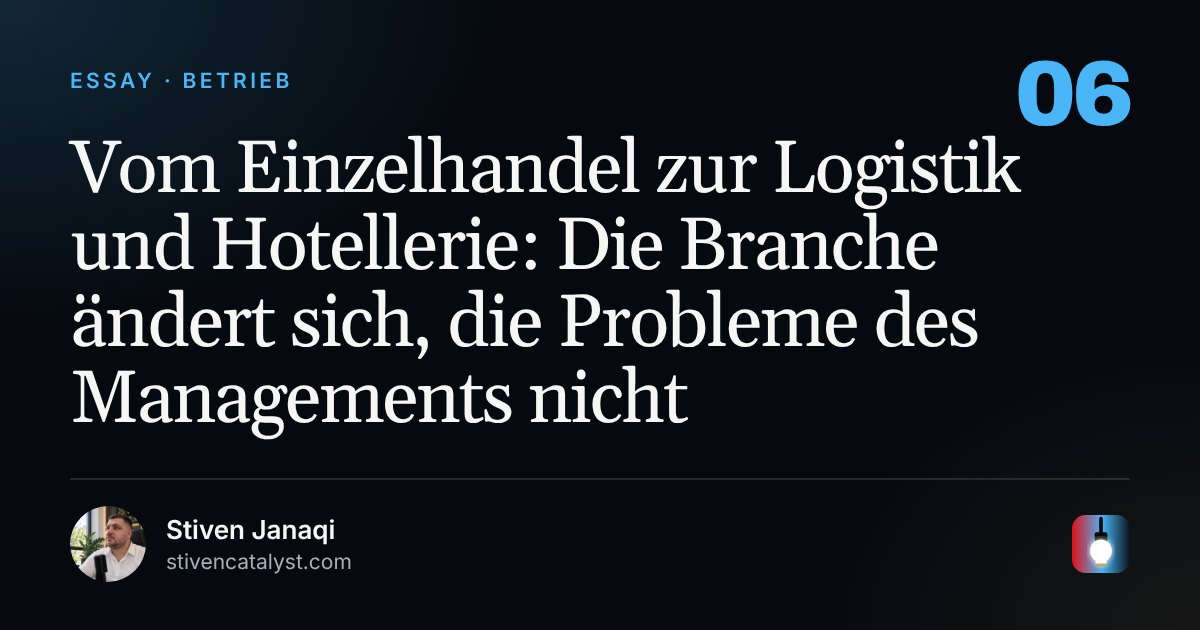
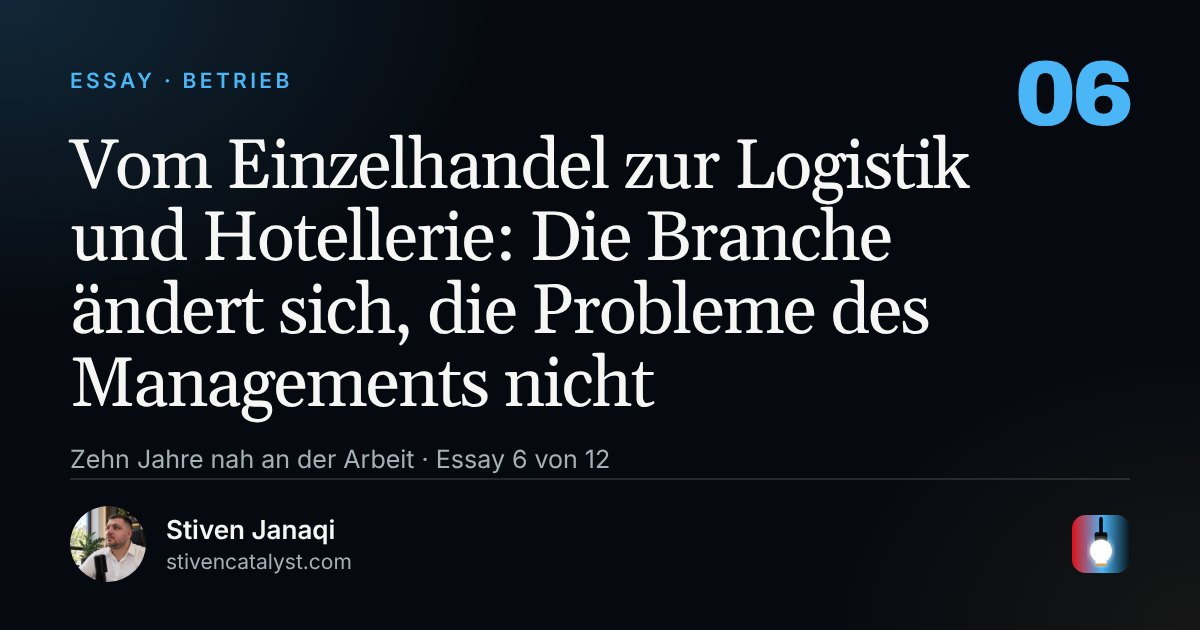
Reflections: The divine mission on the second floor, and The two-day ultimatum, in three languages (#336)
Two new reflections, in Albanian (the originals) and in English and German,
with their link previews.

The link previews now keep their two-line lede under a long title: the lede
may no longer shrink and the copy overflows downwards ("safe center"), so
fit() sees the overflow and makes the title smaller. Before, a title of four
lines cut the lede to one line or hid it; seven essay cards that had this
are made again.

Claude-Session: https://claude.ai/code/session_01FroiJgeKp4xmXy7hsUjsLA

Changed region(s): [[0.0617, 0.2111, 0.8633, 0.754]]

diff --git a/src/content/de/reflections/2026-10-25-the-divine-mission.md b/src/content/de/reflections/2026-10-25-the-divine-mission.md
@@ -1,0 +1,32 @@
+---
+title: 'Die göttliche Mission im zweiten Stock: Wenn der Eigentümer zum Wohltäter des Elends wird'
+date: 2026-10-25
+status: published
+summary: 'Sieht der Eigentümer den Lohn als Gnade statt Pflicht, wird Arbeit zu feudaler Wohltätigkeit.'
+deck: 'In der neuen Mythologie unseres Unternehmertums gibt es Menschen, die glauben, die Schlüssel zum Lager seien vom Himmel herabgesandt worden und der Lohn am Monatsende sei kein Vertrag, sondern ein Akt göttlicher Gnade.'
+description: 'Über den Eigentümer, der den Lohn als himmlisches Almosen sieht, über feudale Wohltätigkeit statt Vertrag und warum Menschen Gerechtigkeit wollen, keine Gunst.'
+---
+
+Es gibt einen magischen Moment in der Psychologie unverdienter Macht: den Augenblick, in dem ein Mensch vergisst, wie er die ersten Steine seines eigenen Hauses gelegt hat, und beschließt, das Gewand eines Gesandten von oben anzulegen.
+
+In vielen albanischen Büros und Betrieben haben wir heute nicht einfach Unternehmensleiter. Wir haben selbsternannte Propheten des Überlebens. Es ist jener Eigentümer, der beim Morgenkaffee aus dem Fenster im zweiten Stock auf die Mauern seines Lagers blickt und überzeugt ist, dass er den Betrieb nicht mit Schweiß, mit Krediten oder mit Glück aufgebaut hat, sondern dass Gott ihn ihm gegeben hat. Und zusammen mit dem Betrieb wurde ihm, so diese göttliche Erzählung, auch eine hohe Mission übertragen: albanische Familien zu ernähren, indem er ihnen am Monatsende einen Bissen hinwirft.
+
+Lassen Sie mich zu dieser modernen Mythologie ganz deutlich sein.
+
+**Wenn ein Unternehmer sich einredet, der Lohn, den er zahlt, sei ein himmlisches Almosen und keine gesetzliche und menschliche Pflicht, hat er jede Chance auf eine gesunde Wirtschaft zerstört.**
+
+Die Logik dieser göttlichen Mission ist einfach, aber zerstörerisch. Wenn der Betrieb ein Geschenk des Himmels ist, gelten die Regeln des Marktes für ihn nicht. Wenn der Eigentümer nur ein Werkzeug eines höheren Willens ist, um Menschen am Leben zu halten, dann gilt jede Bitte um eine Gehaltserhöhung, um bessere Bedingungen oder um die Einhaltung der Arbeitszeit nicht als berechtigter Anspruch. Sie gilt als Sünde. Als Undankbarkeit gegenüber dem, der die heilige Last auf sich genommen hat, euch Brot zu geben.
+
+So wird das Arbeitsverhältnis auf den Kopf gestellt. Es ist kein ehrlicher Austausch mehr zwischen zwei freien Parteien, bei dem Arbeit auf Kapital trifft. Es wird zu einer Vorführung feudaler Wohltätigkeit.
+
+Der Eigentümer ist kein Arbeitgeber mehr; er ist ein Wohltäter. Der Mitarbeiter ist kein Fachmann mehr, der Wert schafft; er ist der stumme Bettler, der jeden Abend dafür danken muss, dass er überhaupt noch da ist. Und wenn der Moment der Rechenschaft kommt, wenn jemand fragt, warum die Gewinne steigen, während die Löhne stehen bleiben, kommt die Antwort im selben Ton eines müden Messias: „Ich halte euch in diesem schweren Land mit Brot am Leben.“
+
+Doch reden wir offen. Gott ist nie auf die Erde herabgestiegen, um Vollzeitverträge ohne Bezahlung der Überstunden zu unterschreiben. Der Himmel hat keinen Oligarchen und keinen kleinen Händler zum Hüter des Schicksals der Albaner bestimmt.
+
+Betriebe werden vom System aufgebaut, vom Kunden, der bezahlt, von der Infrastruktur dieses Landes und vor allem von den müden Händen der Menschen, die im Morgengrauen aufstehen, um dieses Lager oder diesen Laden offen zu halten. Der Bissen am Monatsende wird von niemandem geschenkt. Er wird verdient, mit jedem Liter Schweiß, jeder Sekunde Konzentration und jedem Stück Gesundheit dessen, der arbeitet.
+
+Diese Idee vom Eigentümer als Retter ist die vollkommenste Maske, um fehlende Vision zu verbergen. Es ist leichter, sich einzureden, man sei ein Wohltäter, der ein unfähiges Volk auf dem Rücken trägt, als die bittere Wahrheit anzunehmen: dass dein Betrieb keinen einzigen Tag ohne die unermüdliche Arbeit derer überleben würde, die du als minderwertig behandelst.
+
+Unsere Leute brauchen niemandes Almosen. Sie bitten nicht um die Gunst des Eigentümers und nicht um die Güte derer, die ihnen ein wenig Geld zustecken, damit sie über den Monat kommen. Sie verlangen Gerechtigkeit. Sie verlangen ein System, in dem Arbeit für das geschätzt wird, was sie ist, in dem der Vertrag geachtet wird und in dem die Menschenwürde nicht den kleinen Theokratien privater Büros unterworfen ist.
+
+Der Tag, an dem diese falsche Mission endet, wird der Tag sein, an dem unsere Wirtschaft endlich atmen kann. Denn solange wir glauben, wir dürften nur aus der Gnade eines anderen auf unserem eigenen Boden leben, bleiben wir Fremde im eigenen Land und stehen Schlange für einen Bissen, den wir in Wahrheit mit unseren eigenen Händen hergestellt haben.

diff --git a/src/content/sq/reflections/2026-10-25-the-divine-mission.md b/src/content/sq/reflections/2026-10-25-the-divine-mission.md
@@ -1,0 +1,32 @@
+---
+title: 'Misioni hyjnor në katin e dytë: Kur pronari bëhet bamirës i mjerimit'
+date: 2026-10-25
+status: published
+summary: 'Kur pronari beson se rroga është mëshirë dhe jo detyrim, puna kthehet në bamirësi feudale.'
+deck: 'Në mitologjinë e re të sipërmarrjes sonë, ka njerëz që besojnë se çelësat e magazinës u zbritën nga qielli dhe se paga në fund të muajit nuk është kontratë, por një akt mëshire hyjnore.'
+description: 'Një reflektim për pronarin që e sheh rrogën si lëmoshë qiellore, për bamirësinë feudale në vend të kontratës dhe pse njerëzit kërkojnë drejtësi, jo hir.'
+---
+
+Ka një çast magjik në psikologjinë e pushtetit të pamerituar, ai moment kur njeriu harron se si i ka vënë gurët e parë të shtëpisë së tij dhe vendos të veshë petkun e të dërguarit të lartë.
+
+Në shumë zyra dhe ndërmarrje shqiptare sot, ne nuk kemi thjesht drejtues biznesi. Ne kemi profetë të vetëshpallur të mbijetesës. Është ai pronar i cili, teksa pi kafen e mëngjesit duke parë nga dritarja e katit të dytë muret e magazinës së tij, është i bindur se biznesin nuk e ka ndërtuar me djersë, me kredi apo me fat, por se ia ka dhënë Zoti. Dhe bashkë me biznesin, sipas këtij narrativi hyjnor, i është dhënë edhe një mision i lartë: të ushqejë familjet shqiptare duke u hedhur një kafshatë në fund të muajit.
+
+Më lejoni të jem krejtësisht i qartë për këtë mitologji moderne.
+
+**Kur një sipërmarrës bind veten se paga që jep është lëmoshë qiellore dhe jo detyrim ligjor e njerëzor, ai ka shkatërruar çdo mundësi për të pasur një ekonomi të shëndetshme.**
+
+Logjika e këtij misioni hyjnor është e thjeshtë, por shkatërruese. Nëse biznesi është dhuratë e qiellit, atëherë rregullat e tregut nuk vlejnë për të. Nëse pronari është thjesht një mjet i vullnetit të lartë për të mbajtur gjallë njerëzit, atëherë çdo kërkesë për rritje rroge, për kushte më të mira apo për respektim të orarit nuk shihet si e drejtë legjitime. Ajo shihet si një mëkat. Shihet si mosmirënjohje ndaj atij që ka marrë mbi vete barrën e shenjtë për t'ju dhënë bukë.
+
+Kështu, marrëdhënia e punës kthehet përmbys. Ajo nuk është më një shkëmbim i ndershëm mes dy palëve të lira, ku mundi takohet me kapitalin. Ajo shndërrohet në një shfaqje bamirësie feudale.
+
+Pronari nuk është më punëdhënës; ai është bamirës. Punonjësi nuk është më profesionist që prodhon vlerë; ai është lypësi i heshtur që duhet të falënderojë çdo mbrëmje për faktin se ekziston ende. Dhe kur vjen momenti i llogaridhënies, kur pyetet se pse fitimet rriten ndërsa rrogat mbeten në vend, përgjigjja jepet me të njëjtin ton prej mesie të lodhur: "Po ju mbaj me bukë në këtë vend të vështirë."
+
+Por le të flasim hapur. Zoti nuk ka zbritur asnjëherë në tokë për të firmosur kontrata pune me orar të plotë dhe pa pagesë për orët shtesë. Qielli nuk ka caktuar asnjë oligark apo tregtar të vogël për të qenë kujdestar i fatit të shqiptarëve.
+
+Bizneset ndërtohen nga sistemi, nga konsumatori që paguan, nga infrastruktura e këtij vendi dhe mbi të gjitha, nga duart e lodhura të njerëzve që zgjohen në agim për të mbajtur hapur atë magazinë apo atë dyqan. Kafshata në fund të muajit nuk falet nga askush. Ajo fitohet me çdo litër djersë, me çdo sekondë përqendrimi dhe me çdo copë nga shëndeti i atij që punon.
+
+Kjo ide e pronarit-shpëtimtar është maska më e përsosur për të fshehur mungesën e vizionit. Është më e lehtë t'i thuash vetes se je një bamirës që mban mbi shpinë një popull të paaftë, sesa të pranosh të vërtetën e hidhur: se biznesi yt nuk do të mbijetonte asnjë ditë të vetme pa punën e palodhur të atyre që ti i trajton si inferiorë.
+
+Njerëzit tanë nuk kanë nevojë për lëmoshën e askujt. Ata nuk kërkojnë hirin e pronarit dhe as mirësinë e atyre që u lëshojnë ca para sa për të kaluar muajin. Ata kërkojnë drejtësi. Kërkojnë një sistem ku puna vlerësohet për atë që është, ku kontrata respektohet dhe ku dinjiteti njerëzor nuk është subjekt i teokracive të vogla të zyrave private.
+
+Dita kur ky mision i rremë do të marrë fund do të jetë dita kur ekonomia jonë do të marrë më në fund frymë. Sepse derisa të besojmë se jemi të falur nga mëshira e dikujt tjetër për të jetuar në tokën tonë, ne do të vazhdojmë të jemi të huaj në vendin tonë, duke pritur në radhë për një kafshatë që në fakt e kemi prodhuar vetë me duart tona.

diff --git a/src/content/de/reflections/2026-10-25-the-two-day-ultimatum.md b/src/content/de/reflections/2026-10-25-the-two-day-ultimatum.md
@@ -1,0 +1,32 @@
+---
+title: 'Das Gedächtnis der Fliesen und das Zwei-Tage-Ultimatum: Wenn Führung zum Extremsport wird'
+date: 2026-10-25
+status: published
+summary: 'Kein System, keine Schulung, keine Abläufe: Der Mitarbeiter soll ein lebender Scanner sein. Passiert ein Fehler, trägt er die Schuld, nicht das Chaos.'
+deck: 'In einem Markt, in dem fehlende Systeme sich hinter körperlichem Druck verstecken, wird der Mitarbeiter wie ein organischer Computer behandelt, der alles verstehen soll, ohne ein einziges Werkzeug zu bekommen.'
+description: 'Über Läden, die vom Gedächtnis des Eigentümers leben, über zwei Tage Einarbeitung als Ultimatum und warum ein System, nicht Druck, Menschen vor Fehlern schützt.'
+---
+
+Stellen Sie sich für einen Moment acht volle Stunden auf den Beinen vor, auf dem kalten Boden eines Ladens, in dem die Luft nach Staub und Reinigungsmitteln riecht. Es geht nicht nur um die tägliche Arbeit. Es geht um einen Rhythmus, in dem das Wischen der Fliesen, das Ordnen der Regale und das Putzen jeder Ecke zu einer Routine werden, die dich körperlich aufreibt, bevor der Tag auch nur zur Hälfte vorbei ist.
+
+Doch das ist nur der sichtbare Teil des Leidenswegs.
+
+Dort, wo die eigentliche Arbeit auf einem klaren System, auf Technik, auf Daten und auf dokumentierten Abläufen beruhen sollte, entdeckst du die bittere Wirklichkeit vieler unserer Betriebe: Es gibt kein System. Das Lager oder der Laden läuft auf dem visuellen Gedächtnis des Eigentümers. Du bekommst keine Datenbank, keine klare Anleitung, kein einziges digitales Arbeitsmittel. Von dir wird verlangt, tausende Artikel auswendig zu kennen, zu wissen, wo jede Kiste steckt, und ein lebender menschlicher Scanner zu sein, nur weil jemand nicht ein paar Münzen in ein einfaches Warenwirtschaftssystem stecken wollte.
+
+Und dann kommt der absurdeste Moment dieser kleinen Firmenwelt.
+
+Wenn dieser Mitarbeiter, erschöpft von acht Stunden Putzen und von der unmöglichen Aufgabe, sich ohne die Hilfe eines Systems an jedes Detail zu erinnern, einen kleinen Fehler macht, folgt die Strafe sofort. Man zieht ihn mit der Strenge eines Richters zur Rechenschaft. Man sagt ihm, er sei nicht fähig, er könne sich nicht konzentrieren, er verstehe die Arbeit nicht.
+
+In diesem Moment vergisst der Vorgesetzte ein kleines Detail. Der Mitarbeiter ist seit Jahren dort, ohne je eine echte Schulung bekommen zu haben, ohne jede strukturelle Unterstützung. Seine einzige Einarbeitung war jenes berühmte Zwei-Tage-Ritual am Anfang, bei dem ihm jemand ein paar Worte nebenbei hingeworfen und in scharfem Ton gesagt hat: *Wenn du es verstehst, verstehst du es. Und wenn nicht, bist du für diese Arbeit nicht gemacht.*
+
+Lassen Sie es mich offen sagen, ohne ein einziges schönes Wort, um die Dinge zu beschönigen. **Das ist keine Methode der Beurteilung; das ist Unfähigkeit, getarnt als psychologischer Druck.**
+
+Ein Betrieb, der sich weigert, in Schulung zu investieren, der sich weigert, Arbeitsstandards aufzubauen, der kein Warenwirtschaftssystem einführen will und erwartet, dass der Mitarbeiter wie eine organische Festplatte funktioniert, führt kein Unternehmen. Er hält Menschen durch körperliche Erschöpfung als Geiseln.
+
+Wie kannst du einen Menschen für einen Ablauf zur Rechenschaft ziehen, den du nie zu Papier gebracht hast? Wie kannst du jemanden faul oder unfähig nennen, der den Tag damit verbringt, den Boden zu wischen und sich zu erinnern, wo die Ware abgestellt wurde, während die oben im Büro keine einzige Regel aufgestellt haben?
+
+Das Zwei-Tage-Ultimatum ist die letzte Zuflucht von Vorgesetzten, die nicht zu führen wissen. Es ist ihre Art zu sagen, dass die Schuld nicht in fehlender Organisation liegt, sondern in der Schwäche des Mitarbeiters.
+
+Doch die Wahrheit lässt sich nicht hinter dem Wischen der Ladenfliesen verstecken. Menschen scheitern nicht, weil ihnen der Wille zur Arbeit fehlt. Sie scheitern, wenn sie in einem Umfeld stehen, in dem man das Chaos Disziplin nennt und fehlende Schulung eine Charakterprüfung.
+
+Eine gesunde Organisation kennt eine Regel gut: Das System lehrt den Mitarbeiter, und die Schulung schützt ihn vor Fehlern. Solange unsere Vorgesetzten nicht begreifen, dass Lager nicht vom visuellen Gedächtnis Erschöpfter am Leben gehalten werden und dass zwei Tage Ultimatum niemals eine echte Kultur der Entwicklung ersetzen können, werden wir weiter Läden sehen, in denen die Arbeit zum Gefängnis geworden ist, und Menschen, die gehen und nichts zurücklassen als den Staub, den sie umsonst gewischt haben.

diff --git a/src/content/sq/reflections/2026-10-25-the-two-day-ultimatum.md b/src/content/sq/reflections/2026-10-25-the-two-day-ultimatum.md
@@ -1,0 +1,32 @@
+---
+title: 'Kujtesa e pllakave dhe ultimatumi dy-ditor: Kur menaxhimi kthehet në sport ekstrem'
+date: 2026-10-25
+status: published
+summary: 'Pa sistem, pa trajnim dhe pa procedura, punonjësi duhet të jetë skaner i gjallë. Kur gabon, faji i jepet atij, jo kaosit.'
+deck: 'Në një treg ku mungesa e sistemit fshihet pas trysnisë fizike, punonjësi trajtohet si një kompjuter organik që duhet të kuptojë gjithçka pa i dhënë asnjë mjet.'
+description: 'Një reflektim për dyqanet që punojnë mbi kujtesën e pronarit, për trajnimin dy-ditor si ultimatum dhe pse sistemi, jo presioni, e mbron punonjësin nga gabimi.'
+---
+
+Përfytyroni për një çast tetë orë të plota në këmbë, mbi dyshemenë e ftohtë të një dyqani ku ajri mban erë pluhuri dhe pastruesish. Nuk bëhet fjalë vetëm për punën e përditshme. Bëhet fjalë për një ritëm ku fshirja e pllakave, rregullimi i rafteve dhe pastrimi i çdo cepi bëhen pjesë e një rutine që të tret fizikisht para se dita të jetë afruar në gjysmë.
+
+Por kjo është vetëm pjesa e dukshme e kalvarit.
+
+Aty ku puna e vërtetë duhet të mbështetet te një sistem i qartë, te teknologjia, te të dhënat dhe te procedurat e dokumentuara, zbulon realitetin e hidhur të shumë bizneseve tona: nuk ka asnjë sistem. Magazina apo dyqani funksionon mbi memorien vizuale të pronarit. Ty nuk të jepet një bazë të dhënash, nuk të jepet një udhëzues i qartë, nuk të jepet asnjë mjet pune digjital. Ty të kërkohet të mbash mend mijëra artikuj përmendësh, të dish se ku fshihet çdo kuti dhe të jesh një skaner i gjallë njerëzor, thjesht sepse dikush nuk ka dashur të investojë dy lekë në një sistem të thjeshtë menaxhimi.
+
+Dhe pastaj vjen momenti më absurd i kësaj bote korporative të vogël.
+
+Kur ky punonjës, i rraskapitur nga tetë orë pastrim dhe nga detyra e pamundur për të mbajtur mend çdo detaj pa ndihmën e një sistemi, bën një gabim të vogël, dënimi vjen menjëherë. Atij i kërkohet llogari me një ashpërsi prej gjykatësi. I thuhet se nuk është i zoti, se nuk ka përqendrim, se nuk e kupton punën.
+
+Në atë çast, drejtuesi harron një detaj të vogël. Punonjësi qëndron aty prej vitesh, pa marrë asnjë trajnim të mirëfilltë, pa asnjë mbështetje institucionale. Trajnimi i tij i vetëm ka qenë ai rituali i famshëm dy-ditor në fillim të rrugës, ku dikush i ka hedhur disa fjalë shkarazi dhe i ka thënë me ton prerës: *Po e kuptove, e kuptove. Se po s'e kuptove, s'je për këtë punë.*
+
+Më lejoni ta them hapur, pa asnjë fjalë të bukur për t'i zbukuruar gjërat. **Kjo nuk është metodë vlerësimi; kjo është paaftësi e maskuar me presion psikologjik.**
+
+Një shoqëri pune që refuzon të investojë në trajnime, që refuzon të ndërtojë standarde operimi, që nuk pranon të vërë në punë një sistem inventari dhe që pret që punonjësi të funksionojë si një hard disk organik, nuk po drejton një biznes. Ajo po mban peng njerëz përmes rraskapitjes fizike.
+
+Si mund t'i kërkosh llogari një njeriu për një proces që nuk ia ke hedhur kurrë në letër? Si mund ta quash dembel apo të paaftë dikë që e kalon ditën duke fshirë dyshemenë dhe duke u munduar të kujtojë se ku është vendosur malli, ndërsa ata që rrinë në zyrë lart nuk kanë ndërtuar asnjë rregullore të vetme?
+
+Ultimatumi dy-ditor është streha e fundit e drejtuesve që nuk dinë të udhëheqin. Është mënyra e tyre për të thënë se faji nuk është te mungesa e organizimit, por te dobësia e punonjësit.
+
+Por e vërteta nuk fshihet dot pas fshirjes së pllakave të dyqanit. Njerëzit nuk dështojnë sepse u mungon vullneti për të punuar. Ata dështojnë kur përballen me një mjedis ku kaosit i vihet emri i disiplinës dhe ku mungesa e trajnimit quhet test karakteri.
+
+Një organizatë e shëndetshme e di mirë një rregull: sistemi edukon punonjësin, dhe trajnimi e mbron atë nga gabimi. Derisa drejtuesit tanë të kuptojnë se magazinat nuk mbahen gjallë me kujtesën vizuale të të rraskapiturve dhe se dy ditë ultimatum nuk mund të zëvendësojnë kurrë një kulturë të mirëfilltë zhvillimi, ne do të vazhdojmë të shohim dyqane ku puna është bërë burg, dhe njerëz që ikin duke lënë pas vetëm pluhurin e fshirë kot.

diff --git a/src/content/reflections/2026-10-25-the-divine-mission.md b/src/content/reflections/2026-10-25-the-divine-mission.md
@@ -1,0 +1,32 @@
+---
+title: 'The divine mission on the second floor: when the owner becomes a benefactor of misery'
+date: 2026-10-25
+status: published
+summary: 'When the owner sees pay as mercy, not an obligation, work turns into feudal charity.'
+deck: 'In the new mythology of our entrepreneurship, there are people who believe the keys to the warehouse were sent down from heaven, and that the pay at the end of the month is not a contract but an act of divine mercy.'
+description: 'A reflection on the owner who sees wages as heavenly alms, on feudal charity in place of a contract, and why people ask for justice, not favour.'
+---
+
+There is a magical moment in the psychology of unearned power: the moment a person forgets how he laid the first stones of his own house and decides to put on the robe of a messenger from on high.
+
+In many Albanian offices and businesses today, we do not simply have business leaders. We have self-proclaimed prophets of survival. He is the owner who, drinking his morning coffee and looking out of the second-floor window at the walls of his warehouse, is convinced that he did not build the business with sweat, with loans or with luck, but that God gave it to him. And together with the business, according to this divine narrative, he was also given a high mission: to feed Albanian families by throwing them a morsel at the end of the month.
+
+Let me be completely clear about this modern mythology.
+
+**When an entrepreneur convinces himself that the wage he pays is heavenly alms and not a legal and human obligation, he has destroyed every chance of having a healthy economy.**
+
+The logic of this divine mission is simple, but destructive. If the business is a gift from heaven, then the rules of the market do not apply to it. If the owner is merely an instrument of a higher will to keep people alive, then every request for a pay rise, for better conditions or for respect of working hours is not seen as a legitimate right. It is seen as a sin. It is seen as ingratitude towards the one who has taken on the sacred burden of giving you bread.
+
+And so the work relationship is turned upside down. It is no longer an honest exchange between two free parties, where labour meets capital. It becomes a performance of feudal charity.
+
+The owner is no longer an employer; he is a benefactor. The employee is no longer a professional who creates value; he is the silent beggar who must give thanks every evening for the fact that he still exists. And when the moment of accountability comes, when someone asks why profits grow while wages stay where they are, the answer comes in the same tone of a weary messiah: "I am keeping you in bread in this hard country."
+
+But let us speak openly. God has never come down to earth to sign full-time work contracts without pay for overtime. Heaven has not appointed any oligarch or small trader to be the guardian of the fate of Albanians.
+
+Businesses are built by the system, by the customer who pays, by the infrastructure of this country and, above all, by the tired hands of the people who wake at dawn to keep that warehouse or that shop open. The morsel at the end of the month is not granted by anyone. It is earned with every litre of sweat, every second of concentration and every piece of the health of the one who works.
+
+This idea of the owner as saviour is the most perfect mask for hiding a lack of vision. It is easier to tell yourself that you are a benefactor carrying an incapable people on your back than to accept the bitter truth: that your business would not survive a single day without the tireless work of those you treat as inferior.
+
+Our people do not need anyone's alms. They do not ask for the owner's favour, nor for the kindness of those who hand out a little money to get through the month. They ask for justice. They ask for a system where work is valued for what it is, where the contract is respected and where human dignity is not subject to the little theocracies of private offices.
+
+The day this false mission ends will be the day our economy can finally breathe. Because as long as we believe that we are granted the mercy of someone else to live on our own land, we will go on being strangers in our own country, waiting in line for a morsel that in fact we produced ourselves, with our own hands.

diff --git a/src/content/reflections/2026-10-25-the-two-day-ultimatum.md b/src/content/reflections/2026-10-25-the-two-day-ultimatum.md
@@ -1,0 +1,32 @@
+---
+title: 'The memory of the floor tiles and the two-day ultimatum: when management becomes an extreme sport'
+date: 2026-10-25
+status: published
+summary: 'No system, no training, no procedures: the employee has to be a living scanner. When he slips, the blame goes to him, not to the chaos.'
+deck: 'In a market where the lack of a system hides behind physical pressure, the employee is treated as an organic computer that has to understand everything without being given a single tool.'
+description: 'A reflection on shops run on the owner''s memory, on two days of training as an ultimatum, and why a system, not pressure, protects people from mistakes.'
+---
+
+Picture for a moment eight full hours on your feet, on the cold floor of a shop where the air smells of dust and cleaning products. This is not only about the everyday work. It is about a rhythm in which mopping the tiles, straightening the shelves and cleaning every corner become a routine that wears you down physically before the day is even halfway through.
+
+But that is only the visible part of the ordeal.
+
+Where the real work ought to rest on a clear system, on technology, on data and on documented procedures, you discover the bitter reality of many of our businesses: there is no system at all. The warehouse or the shop runs on the owner's visual memory. You are not given a database, you are not given a clear guide, you are not given a single digital work tool. You are asked to remember thousands of items by heart, to know where every box is hidden and to be a living human scanner, simply because someone did not want to invest two coins in a simple management system.
+
+And then comes the most absurd moment of this small corporate world.
+
+When this employee, worn out by eight hours of cleaning and by the impossible task of remembering every detail without the help of a system, makes a small mistake, the punishment comes at once. He is called to account with the severity of a judge. He is told that he is not capable, that he cannot concentrate, that he does not understand the work.
+
+In that moment, the manager forgets one small detail. The employee has been there for years, without any real training, without any institutional support. His only training was that famous two-day ritual at the start, when someone threw a few words at him in passing and told him in a curt tone: *If you get it, you get it. And if you don't, you're not cut out for this job.*
+
+Let me say it openly, without a single pretty word to dress things up. **This is not a method of assessment; it is incompetence disguised as psychological pressure.**
+
+A workplace that refuses to invest in training, refuses to build operating standards, will not put an inventory system to work and expects the employee to function as an organic hard disk is not running a business. It is holding people hostage through physical exhaustion.
+
+How can you hold a person to account for a process you never once put on paper? How can you call someone lazy or incompetent who spends the day mopping the floor and trying to remember where the goods were put, while those who sit in the office upstairs have not built a single rule?
+
+The two-day ultimatum is the last refuge of managers who do not know how to lead. It is their way of saying that the fault lies not in the lack of organisation, but in the weakness of the employee.
+
+But the truth cannot be hidden behind mopping the shop's tiles. People do not fail because they lack the will to work. They fail when they face an environment where chaos is given the name of discipline and the lack of training is called a test of character.
+
+A healthy organisation knows one rule well: the system teaches the employee, and training protects him from mistakes. Until our managers understand that warehouses are not kept alive by the visual memory of the exhausted, and that a two-day ultimatum can never replace a real culture of development, we will keep seeing shops where work has become a prison, and people who leave behind nothing but the dust they swept in vain.
